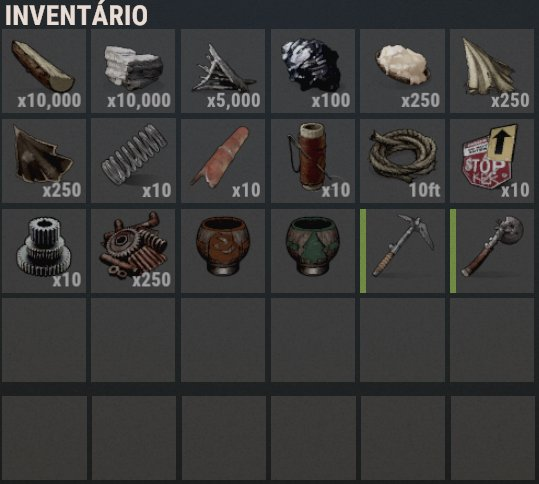
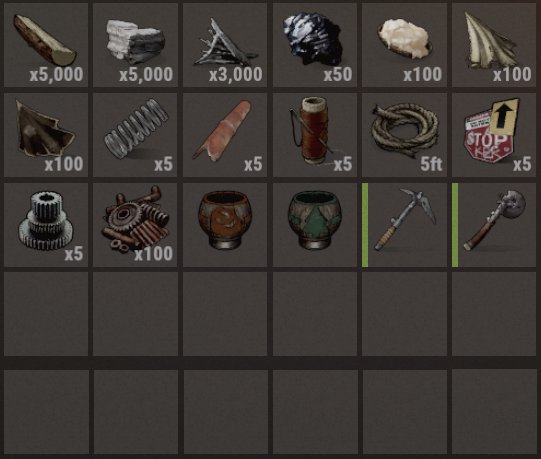
feat(vip): update VIP inventory images, reduce VIP Ouro price to R and sync kit quantities

Changed region(s): [[0.0, 0.0, 1.0, 1.0]]

diff --git a/loja/index.html b/loja/index.html
@@ -102,7 +102,7 @@
       </div>
       <div data-orientation="horizontal" role="none" data-slot="separator" class="shrink-0 data-horizontal:h-px data-horizontal:w-full bg-[var(--border)]"></div>
       <div class="mt-auto flex flex-col gap-1 pt-1">
-        <span class="preco-valor" style="color: #FBBF24; font-weight: 900; font-size: 1.65rem;">R$ 62,00</span>
+        <span class="preco-valor" style="color: #FBBF24; font-weight: 900; font-size: 1.65rem;">R$ 60,00</span>
       </div>
     </div>
     <div data-slot="card-footer" class="flex items-center rounded-b-xl border-t bg-muted/50 p-(--card-spacing) relative">
@@ -150,23 +150,24 @@ const KITS_DATA = {
     html: `
       <div style="background:rgba(255,255,255,0.03); border:1px solid rgba(108,151,142,0.2); border-radius:8px; padding:14px; margin-bottom:12px;">
         <strong style="color:#CD7F32; text-transform:uppercase; font-size:0.78rem; letter-spacing:0.06em; display:block; margin-bottom:6px;">Recursos Básicos:</strong>
-        • 10.000x Madeira<br>
-        • 10.000x Pedra<br>
-        • 5.000x Fragmentos de Metal<br>
-        • 100x Metal de Alta Qualidade (HQM)<br>
-        • 250x Gordura Animal & 250x Pano & 250x Couro<br>
-        • 250x Sucata (Scrap)
+        • 5.000x Madeira<br>
+        • 5.000x Pedra<br>
+        • 3.000x Fragmentos de Metal<br>
+        • 50x Metal de Alta Qualidade (HQM)<br>
+        • 100x Gordura Animal & 100x Pano & 100x Couro<br>
+        • 100x Sucata (Scrap)
       </div>
       <div style="background:rgba(255,255,255,0.03); border:1px solid rgba(108,151,142,0.2); border-radius:8px; padding:14px; margin-bottom:12px;">
         <strong style="color:#CD7F32; text-transform:uppercase; font-size:0.78rem; letter-spacing:0.06em; display:block; margin-bottom:6px;">Componentes:</strong>
-        • 10x Molas • 10x Tubos de Metal • 10x Kits de Costura<br>
-        • 10x Cordas (10ft) • 10x Chapas de Sinalização • 10x Engrenagens
+        • 5x Molas • 5x Tubos de Metal • 5x Kits de Costura<br>
+        • 5x Cordas (5ft) • 5x Chapas de Sinalização • 5x Engrenagens
       </div>
       <div style="background:rgba(255,255,255,0.03); border:1px solid rgba(108,151,142,0.2); border-radius:8px; padding:14px;">
         <strong style="color:#CD7F32; text-transform:uppercase; font-size:0.78rem; letter-spacing:0.06em; display:block; margin-bottom:6px;">Ferramentas & Especiais:</strong>
         • 1x Picareta de Metal Recuperada<br>
         • 1x Machado de Metal Recuperado<br>
-        • 2x Caldeirões Especiais (Fornalhas Abóbora & Festiva)<br>
+        • 1x Fornalha Especial Abóbora (Caldeirão)<br>
+        • 1x Fornalha Especial Festiva (Caldeirão)<br>
         • Skip fila com Prioridade Máxima no Servidor
       </div>
     `
@@ -179,64 +180,64 @@ const KITS_DATA = {
     html: `
       <div style="background:rgba(255,255,255,0.03); border:1px solid rgba(108,151,142,0.2); border-radius:8px; padding:14px; margin-bottom:12px;">
         <strong style="color:#E2E8F0; text-transform:uppercase; font-size:0.78rem; letter-spacing:0.06em; display:block; margin-bottom:6px;">Recursos Básicos:</strong>
-        • 20.000x Madeira<br>
-        • 20.000x Pedra<br>
-        • 10.000x Fragmentos de Metal<br>
-        • 200x Metal de Alta Qualidade (HQM)<br>
-        • 500x Gordura Animal & 500x Pano & 500x Couro<br>
-        • 500x Sucata (Scrap)
+        • 10.000x Madeira<br>
+        • 10.000x Pedra<br>
+        • 5.000x Fragmentos de Metal<br>
+        • 100x Metal de Alta Qualidade (HQM)<br>
+        • 300x Gordura Animal & 300x Pano & 300x Couro<br>
+        • 300x Sucata (Scrap)
       </div>
       <div style="background:rgba(255,255,255,0.03); border:1px solid rgba(108,151,142,0.2); border-radius:8px; padding:14px; margin-bottom:12px;">
         <strong style="color:#E2E8F0; text-transform:uppercase; font-size:0.78rem; letter-spacing:0.06em; display:block; margin-bottom:6px;">Componentes & Armamento:</strong>
-        • 20x Molas • 20x Tubos de Metal • 20x Kits de Costura<br>
-        • 20x Cordas (20ft) • 20x Chapas de Sinalização • 20x Engrenagens<br>
-        • 10x Corpos Semi-Automáticos • 10x Corpos de SMG • 5x Corpos de Rifle
+        • 10x Molas • 10x Tubos de Metal • 10x Kits de Costura<br>
+        • 10x Cordas (10ft) • 10x Chapas de Sinalização • 10x Engrenagens<br>
+        • 5x Corpos Semi-Automáticos • 5x Corpos de SMG • 3x Corpos de Rifle
       </div>
       <div style="background:rgba(255,255,255,0.03); border:1px solid rgba(108,151,142,0.2); border-radius:8px; padding:14px;">
         <strong style="color:#E2E8F0; text-transform:uppercase; font-size:0.78rem; letter-spacing:0.06em; display:block; margin-bottom:6px;">Ferramentas, Cartões & Especiais:</strong>
         • 1x Martelo Demolidor (Jackhammer)<br>
         • 1x Motosserra (Chainsaw)<br>
         • 1x Supply Signal (Airdrop com avião)<br>
-        • 2x Cartões de Acesso Azuis & 2x Cartões Vermelhos<br>
-        • 4x Caldeirões Especiais (2x Abóbora, 2x Festiva)<br>
+        • 1x Cartão de Acesso Azul • 1x Cartão de Acesso Vermelho<br>
+        • 1x Fornalha Especial Abóbora • 1x Fornalha Especial Festiva<br>
         • Skip fila com Prioridade Máxima no Servidor
       </div>
     `
   },
   ouro: {
     title: 'VIP Ouro',
-    subtitle: '29 Itens no Inventário • Mais Completo • R$ 62,00',
+    subtitle: '30 Itens no Inventário • Mais Completo • R$ 60,00',
     img: '/images/vip_ouro.jpg',
     buyUrl: '/comprar/vip-ouro',
     html: `
       <div style="background:rgba(255,255,255,0.03); border:1px solid rgba(108,151,142,0.2); border-radius:8px; padding:14px; margin-bottom:12px;">
         <strong style="color:#F59E0B; text-transform:uppercase; font-size:0.78rem; letter-spacing:0.06em; display:block; margin-bottom:6px;">Recursos em Massa:</strong>
-        • 40.000x Madeira<br>
-        • 40.000x Pedra<br>
-        • 20.000x Fragmentos de Metal<br>
+        • 20.000x Madeira<br>
+        • 20.000x Pedra<br>
+        • 15.000x Fragmentos de Metal<br>
         • 300x Metal de Alta Qualidade (HQM)<br>
-        • 1.000x Gordura Animal & 1.000x Pano & 1.000x Couro<br>
-        • 750x Sucata (Scrap)
+        • 600x Gordura Animal & 600x Pano & 600x Couro<br>
+        • 300x Sucata (Scrap)
       </div>
       <div style="background:rgba(255,255,255,0.03); border:1px solid rgba(108,151,142,0.2); border-radius:8px; padding:14px; margin-bottom:12px;">
         <strong style="color:#F59E0B; text-transform:uppercase; font-size:0.78rem; letter-spacing:0.06em; display:block; margin-bottom:6px;">Componentes & Armamento:</strong>
-        • 40x Molas • 40x Tubos de Metal • 40x Kits de Costura<br>
-        • 40x Cordas (40ft) • 40x Chapas de Sinalização • 40x Engrenagens<br>
-        • 20x Corpos Semi-Automáticos • 20x Corpos de SMG • 10x Corpos de Rifle
+        • 20x Molas • 20x Tubos de Metal • 20x Kits de Costura<br>
+        • 20x Cordas (20ft) • 20x Chapas de Sinalização • 20x Engrenagens<br>
+        • 10x Corpos Semi-Automáticos • 10x Corpos de SMG • 10x Corpos de Rifle
       </div>
       <div style="background:rgba(255,255,255,0.03); border:1px solid rgba(108,151,142,0.2); border-radius:8px; padding:14px; margin-bottom:12px;">
-        <strong style="color:#F59E0B; text-transform:uppercase; font-size:0.78rem; letter-spacing:0.06em; display:block; margin-bottom:6px;">Construção & Tecnologia Avançada:</strong>
-        • 1x Bancada de Trabalho Nível 3 (Workbench T3)<br>
-        • 1x Porta Blindada & 1x Porta de Garagem<br>
-        • 2x Mini Refinarias de Petróleo
+        <strong style="color:#F59E0B; text-transform:uppercase; font-size:0.78rem; letter-spacing:0.06em; display:block; margin-bottom:6px;">Construção & Proteção:</strong>
+        • 2x Portas Blindadas (Armored Door)<br>
+        • 2x Portas de Garagem (Garage Door)<br>
+        • 2x Caixas Grandes de Madeira (Large Box)
       </div>
       <div style="background:rgba(255,255,255,0.03); border:1px solid rgba(108,151,142,0.2); border-radius:8px; padding:14px;">
         <strong style="color:#F59E0B; text-transform:uppercase; font-size:0.78rem; letter-spacing:0.06em; display:block; margin-bottom:6px;">Ferramentas, Cartões & Especiais:</strong>
         • 2x Martelos Demolidores (Jackhammer)<br>
-        • 1x Motosserra (Chainsaw)<br>
-        • 1x Supply Signal (Airdrop com avião)<br>
+        • 2x Motosserras (Chainsaw)<br>
+        • 2x Supply Signals (Airdrops com avião)<br>
         • 3x Cartões Verdes • 3x Cartões Azuis • 3x Cartões Vermelhos<br>
-        • 6x Caldeirões Especiais (3x Abóbora, 3x Festiva)<br>
+        • 1x Fornalha Especial Abóbora • 1x Fornalha Especial Festiva<br>
         • Skip fila com Prioridade Máxima no Servidor
       </div>
     `

diff --git a/api/_mercadopago.js b/api/_mercadopago.js
@@ -16,7 +16,7 @@ function getMPConfig() {
     kits: {
       bronze: { name: "VIP Bronze (30 Dias)", price: 20.00, group: "vip_bronze", kitPermission: "kits.vipbronze" },
       prata: { name: "VIP Prata (30 Dias)", price: 40.00, group: "vip_prata", kitPermission: "kits.vipprata" },
-      ouro: { name: "VIP Ouro (30 Dias)", price: 62.00, group: "vip_ouro", kitPermission: "kits.vipouro" }
+      ouro: { name: "VIP Ouro (30 Dias)", price: 60.00, group: "vip_ouro", kitPermission: "kits.vipouro" }
     }
   };
 

diff --git a/js/loja_checkout.js b/js/loja_checkout.js
@@ -25,12 +25,12 @@
     },
     ouro: {
       name: 'VIP Ouro',
-      price: 'R$ 62,00',
-      numericPrice: 62.00,
+      price: 'R$ 60,00',
+      numericPrice: 60.00,
       badgeColor: '#fbbf24',
       badgeBorder: '#f59e0b',
       badgeBg: 'rgba(245, 158, 11, 0.15)',
-      perks: '29 Itens no Inventário • Workbench T3 • Porta Blindada • Mini Refinarias • Skip Fila'
+      perks: '30 Itens no Inventário • 2x Portas Blindadas • 2x Garagens • 2x Airdrops • Skip Fila'
     }
   };
 
